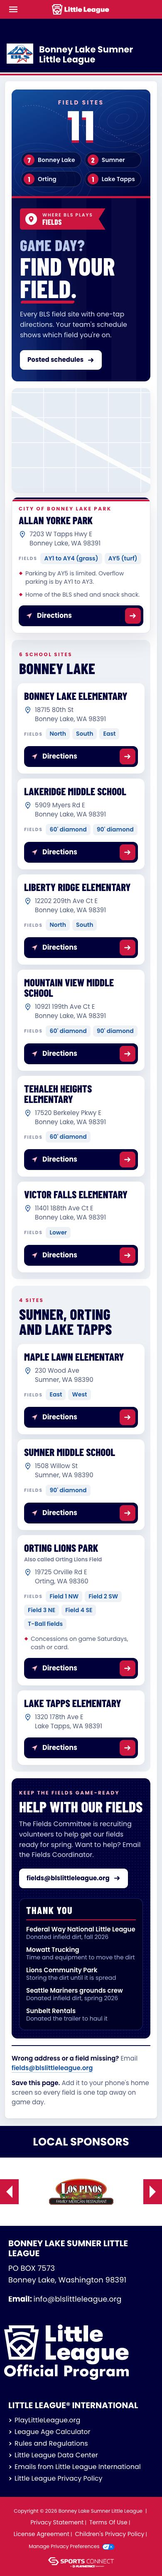
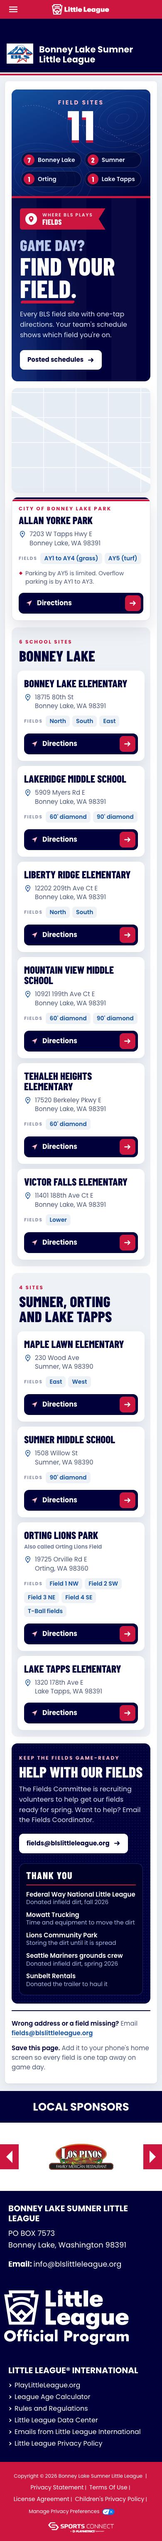
bls preview fields: snack shack and concessions notes removed until there are specifics
Generated with [Claude Code](https://claude.ai/code)
via [Happy](https://happy.engineering)

Claude-Session: https://claude.ai/code/session_018pH9PNFLS4TcMKKFXS6iHD

diff --git a/bls/preview/proposed/fields.html b/bls/preview/proposed/fields.html
@@ -1135,7 +1135,7 @@ window.addEventListener('OneTrustGroupsUpdated', handleGptAd);
 </section>
 <section class="fd-feature">
 <div class="fd-map"><iframe allowfullscreen="" src="https://www.google.com/maps?q=Allan+Yorke+Park%2C+7203+W+Tapps+Hwy+E%2C+Bonney+Lake%2C+WA+98391&amp;z=15&amp;output=embed" title="Map of Allan Yorke Park"></iframe></div>
-<article class="fd-card fd-big"><span class="bx-eyebrow">City of Bonney Lake park</span><h3>Allan Yorke Park</h3><p class="fd-addr"><svg aria-hidden="true" viewbox="0 0 24 24"><path d="M12 22s7-7.1 7-12.2A7 7 0 0 0 5 9.8C5 14.9 12 22 12 22z" fill="none" stroke="currentColor" stroke-width="2"></path><circle cx="12" cy="9.8" fill="currentColor" r="2.4"></circle></svg><span>7203 W Tapps Hwy E<br/>Bonney Lake, WA 98391</span></p><p class="fd-tags"><span class="fd-tl">Fields</span><span>AY1 to AY4 (grass)</span><span>AY5 (turf)</span></p><p class="fd-note">Parking by AY5 is limited. Overflow parking is by AY1 to AY3.</p><p class="fd-note">Home of the BLS shed and snack shack.</p><a aria-label="Directions to Allan Yorke Park" class="fd-go" href="https://www.google.com/maps/dir/?api=1&amp;destination=Allan+Yorke+Park%2C+7203+W+Tapps+Hwy+E%2C+Bonney+Lake%2C+WA+98391" rel="noopener" target="_blank"><svg aria-hidden="true" viewbox="0 0 24 24"><path d="M3 11l18-8-8 18-2-8-8-2z" fill="currentColor"></path></svg><span>Directions</span><b><svg aria-hidden="true" viewbox="0 0 16 16"><path d="M2 8h11M9 4l4 4-4 4" fill="none" stroke="currentColor" stroke-linecap="round" stroke-linejoin="round" stroke-width="2.2"></path></svg></b></a></article>
+<article class="fd-card fd-big"><span class="bx-eyebrow">City of Bonney Lake park</span><h3>Allan Yorke Park</h3><p class="fd-addr"><svg aria-hidden="true" viewbox="0 0 24 24"><path d="M12 22s7-7.1 7-12.2A7 7 0 0 0 5 9.8C5 14.9 12 22 12 22z" fill="none" stroke="currentColor" stroke-width="2"></path><circle cx="12" cy="9.8" fill="currentColor" r="2.4"></circle></svg><span>7203 W Tapps Hwy E<br/>Bonney Lake, WA 98391</span></p><p class="fd-tags"><span class="fd-tl">Fields</span><span>AY1 to AY4 (grass)</span><span>AY5 (turf)</span></p><p class="fd-note">Parking by AY5 is limited. Overflow parking is by AY1 to AY3.</p><a aria-label="Directions to Allan Yorke Park" class="fd-go" href="https://www.google.com/maps/dir/?api=1&amp;destination=Allan+Yorke+Park%2C+7203+W+Tapps+Hwy+E%2C+Bonney+Lake%2C+WA+98391" rel="noopener" target="_blank"><svg aria-hidden="true" viewbox="0 0 24 24"><path d="M3 11l18-8-8 18-2-8-8-2z" fill="currentColor"></path></svg><span>Directions</span><b><svg aria-hidden="true" viewbox="0 0 16 16"><path d="M2 8h11M9 4l4 4-4 4" fill="none" stroke="currentColor" stroke-linecap="round" stroke-linejoin="round" stroke-width="2.2"></path></svg></b></a></article>
 </section>
 <section class="bx-sec fd-town">
 <header><span class="bx-eyebrow">6 school sites</span><h2>Bonney Lake</h2></header>
@@ -1153,7 +1153,7 @@ window.addEventListener('OneTrustGroupsUpdated', handleGptAd);
 <div class="fd-grid">
 <article class="fd-card"><h3>Maple Lawn Elementary</h3><p class="fd-addr"><svg aria-hidden="true" viewbox="0 0 24 24"><path d="M12 22s7-7.1 7-12.2A7 7 0 0 0 5 9.8C5 14.9 12 22 12 22z" fill="none" stroke="currentColor" stroke-width="2"></path><circle cx="12" cy="9.8" fill="currentColor" r="2.4"></circle></svg><span>230 Wood Ave<br/>Sumner, WA 98390</span></p><p class="fd-tags"><span class="fd-tl">Fields</span><span>East</span><span>West</span></p><a aria-label="Directions to Maple Lawn Elementary" class="fd-go" href="https://www.google.com/maps/dir/?api=1&amp;destination=Maple+Lawn+Elementary%2C+230+Wood+Ave%2C+Sumner%2C+WA+98390" rel="noopener" target="_blank"><svg aria-hidden="true" viewbox="0 0 24 24"><path d="M3 11l18-8-8 18-2-8-8-2z" fill="currentColor"></path></svg><span>Directions</span><b><svg aria-hidden="true" viewbox="0 0 16 16"><path d="M2 8h11M9 4l4 4-4 4" fill="none" stroke="currentColor" stroke-linecap="round" stroke-linejoin="round" stroke-width="2.2"></path></svg></b></a></article>
 <article class="fd-card"><h3>Sumner Middle School</h3><p class="fd-addr"><svg aria-hidden="true" viewbox="0 0 24 24"><path d="M12 22s7-7.1 7-12.2A7 7 0 0 0 5 9.8C5 14.9 12 22 12 22z" fill="none" stroke="currentColor" stroke-width="2"></path><circle cx="12" cy="9.8" fill="currentColor" r="2.4"></circle></svg><span>1508 Willow St<br/>Sumner, WA 98390</span></p><p class="fd-tags"><span class="fd-tl">Fields</span><span>90' diamond</span></p><a aria-label="Directions to Sumner Middle School" class="fd-go" href="https://www.google.com/maps/dir/?api=1&amp;destination=Sumner+Middle+School%2C+1508+Willow+St%2C+Sumner%2C+WA+98390" rel="noopener" target="_blank"><svg aria-hidden="true" viewbox="0 0 24 24"><path d="M3 11l18-8-8 18-2-8-8-2z" fill="currentColor"></path></svg><span>Directions</span><b><svg aria-hidden="true" viewbox="0 0 16 16"><path d="M2 8h11M9 4l4 4-4 4" fill="none" stroke="currentColor" stroke-linecap="round" stroke-linejoin="round" stroke-width="2.2"></path></svg></b></a></article>
-<article class="fd-card"><h3>Orting Lions Park</h3><p class="fd-aka">Also called Orting Lions Field</p><p class="fd-addr"><svg aria-hidden="true" viewbox="0 0 24 24"><path d="M12 22s7-7.1 7-12.2A7 7 0 0 0 5 9.8C5 14.9 12 22 12 22z" fill="none" stroke="currentColor" stroke-width="2"></path><circle cx="12" cy="9.8" fill="currentColor" r="2.4"></circle></svg><span>19725 Orville Rd E<br/>Orting, WA 98360</span></p><p class="fd-tags"><span class="fd-tl">Fields</span><span>Field 1 NW</span><span>Field 2 SW</span><span>Field 3 NE</span><span>Field 4 SE</span><span>T-Ball fields</span></p><p class="fd-note">Concessions on game Saturdays, cash or card.</p><a aria-label="Directions to Orting Lions Park" class="fd-go" href="https://www.google.com/maps/dir/?api=1&amp;destination=Orting+Lions+Park%2C+19725+Orville+Rd+E%2C+Orting%2C+WA+98360" rel="noopener" target="_blank"><svg aria-hidden="true" viewbox="0 0 24 24"><path d="M3 11l18-8-8 18-2-8-8-2z" fill="currentColor"></path></svg><span>Directions</span><b><svg aria-hidden="true" viewbox="0 0 16 16"><path d="M2 8h11M9 4l4 4-4 4" fill="none" stroke="currentColor" stroke-linecap="round" stroke-linejoin="round" stroke-width="2.2"></path></svg></b></a></article>
+<article class="fd-card"><h3>Orting Lions Park</h3><p class="fd-aka">Also called Orting Lions Field</p><p class="fd-addr"><svg aria-hidden="true" viewbox="0 0 24 24"><path d="M12 22s7-7.1 7-12.2A7 7 0 0 0 5 9.8C5 14.9 12 22 12 22z" fill="none" stroke="currentColor" stroke-width="2"></path><circle cx="12" cy="9.8" fill="currentColor" r="2.4"></circle></svg><span>19725 Orville Rd E<br/>Orting, WA 98360</span></p><p class="fd-tags"><span class="fd-tl">Fields</span><span>Field 1 NW</span><span>Field 2 SW</span><span>Field 3 NE</span><span>Field 4 SE</span><span>T-Ball fields</span></p><a aria-label="Directions to Orting Lions Park" class="fd-go" href="https://www.google.com/maps/dir/?api=1&amp;destination=Orting+Lions+Park%2C+19725+Orville+Rd+E%2C+Orting%2C+WA+98360" rel="noopener" target="_blank"><svg aria-hidden="true" viewbox="0 0 24 24"><path d="M3 11l18-8-8 18-2-8-8-2z" fill="currentColor"></path></svg><span>Directions</span><b><svg aria-hidden="true" viewbox="0 0 16 16"><path d="M2 8h11M9 4l4 4-4 4" fill="none" stroke="currentColor" stroke-linecap="round" stroke-linejoin="round" stroke-width="2.2"></path></svg></b></a></article>
 <article class="fd-card"><h3>Lake Tapps Elementary</h3><p class="fd-addr"><svg aria-hidden="true" viewbox="0 0 24 24"><path d="M12 22s7-7.1 7-12.2A7 7 0 0 0 5 9.8C5 14.9 12 22 12 22z" fill="none" stroke="currentColor" stroke-width="2"></path><circle cx="12" cy="9.8" fill="currentColor" r="2.4"></circle></svg><span>1320 178th Ave E<br/>Lake Tapps, WA 98391</span></p><a aria-label="Directions to Lake Tapps Elementary" class="fd-go" href="https://www.google.com/maps/dir/?api=1&amp;destination=Lake+Tapps+Elementary%2C+1320+178th+Ave+E%2C+Lake+Tapps%2C+WA+98391" rel="noopener" target="_blank"><svg aria-hidden="true" viewbox="0 0 24 24"><path d="M3 11l18-8-8 18-2-8-8-2z" fill="currentColor"></path></svg><span>Directions</span><b><svg aria-hidden="true" viewbox="0 0 16 16"><path d="M2 8h11M9 4l4 4-4 4" fill="none" stroke="currentColor" stroke-linecap="round" stroke-linejoin="round" stroke-width="2.2"></path></svg></b></a></article>
 </div>
 </section>

diff --git a/bls/preview/modules/fields.html b/bls/preview/modules/fields.html
@@ -144,7 +144,7 @@
 
   <section class="fd-feature">
     <div class="fd-map"><iframe src="https://www.google.com/maps?q=Allan+Yorke+Park%2C+7203+W+Tapps+Hwy+E%2C+Bonney+Lake%2C+WA+98391&amp;z=15&amp;output=embed" title="Map of Allan Yorke Park" allowfullscreen></iframe></div>
-    <article class="fd-card fd-big"><span class="bx-eyebrow">City of Bonney Lake park</span><h3>Allan Yorke Park</h3><p class="fd-addr"><svg viewBox="0 0 24 24" aria-hidden="true"><path d="M12 22s7-7.1 7-12.2A7 7 0 0 0 5 9.8C5 14.9 12 22 12 22z" fill="none" stroke="currentColor" stroke-width="2"/><circle cx="12" cy="9.8" r="2.4" fill="currentColor"/></svg><span>7203 W Tapps Hwy E<br>Bonney Lake, WA 98391</span></p><p class="fd-tags"><span class="fd-tl">Fields</span><span>AY1 to AY4 (grass)</span><span>AY5 (turf)</span></p><p class="fd-note">Parking by AY5 is limited. Overflow parking is by AY1 to AY3.</p><p class="fd-note">Home of the BLS shed and snack shack.</p><a class="fd-go" href="https://www.google.com/maps/dir/?api=1&amp;destination=Allan+Yorke+Park%2C+7203+W+Tapps+Hwy+E%2C+Bonney+Lake%2C+WA+98391" target="_blank" rel="noopener" aria-label="Directions to Allan Yorke Park"><svg viewBox="0 0 24 24" aria-hidden="true"><path d="M3 11l18-8-8 18-2-8-8-2z" fill="currentColor"/></svg><span>Directions</span><b><svg viewBox="0 0 16 16" aria-hidden="true"><path d="M2 8h11M9 4l4 4-4 4" fill="none" stroke="currentColor" stroke-width="2.2" stroke-linecap="round" stroke-linejoin="round"/></svg></b></a></article>
+    <article class="fd-card fd-big"><span class="bx-eyebrow">City of Bonney Lake park</span><h3>Allan Yorke Park</h3><p class="fd-addr"><svg viewBox="0 0 24 24" aria-hidden="true"><path d="M12 22s7-7.1 7-12.2A7 7 0 0 0 5 9.8C5 14.9 12 22 12 22z" fill="none" stroke="currentColor" stroke-width="2"/><circle cx="12" cy="9.8" r="2.4" fill="currentColor"/></svg><span>7203 W Tapps Hwy E<br>Bonney Lake, WA 98391</span></p><p class="fd-tags"><span class="fd-tl">Fields</span><span>AY1 to AY4 (grass)</span><span>AY5 (turf)</span></p><p class="fd-note">Parking by AY5 is limited. Overflow parking is by AY1 to AY3.</p><a class="fd-go" href="https://www.google.com/maps/dir/?api=1&amp;destination=Allan+Yorke+Park%2C+7203+W+Tapps+Hwy+E%2C+Bonney+Lake%2C+WA+98391" target="_blank" rel="noopener" aria-label="Directions to Allan Yorke Park"><svg viewBox="0 0 24 24" aria-hidden="true"><path d="M3 11l18-8-8 18-2-8-8-2z" fill="currentColor"/></svg><span>Directions</span><b><svg viewBox="0 0 16 16" aria-hidden="true"><path d="M2 8h11M9 4l4 4-4 4" fill="none" stroke="currentColor" stroke-width="2.2" stroke-linecap="round" stroke-linejoin="round"/></svg></b></a></article>
   </section>
 
   <section class="bx-sec fd-town">
@@ -164,7 +164,7 @@
     <div class="fd-grid">
       <article class="fd-card"><h3>Maple Lawn Elementary</h3><p class="fd-addr"><svg viewBox="0 0 24 24" aria-hidden="true"><path d="M12 22s7-7.1 7-12.2A7 7 0 0 0 5 9.8C5 14.9 12 22 12 22z" fill="none" stroke="currentColor" stroke-width="2"/><circle cx="12" cy="9.8" r="2.4" fill="currentColor"/></svg><span>230 Wood Ave<br>Sumner, WA 98390</span></p><p class="fd-tags"><span class="fd-tl">Fields</span><span>East</span><span>West</span></p><a class="fd-go" href="https://www.google.com/maps/dir/?api=1&amp;destination=Maple+Lawn+Elementary%2C+230+Wood+Ave%2C+Sumner%2C+WA+98390" target="_blank" rel="noopener" aria-label="Directions to Maple Lawn Elementary"><svg viewBox="0 0 24 24" aria-hidden="true"><path d="M3 11l18-8-8 18-2-8-8-2z" fill="currentColor"/></svg><span>Directions</span><b><svg viewBox="0 0 16 16" aria-hidden="true"><path d="M2 8h11M9 4l4 4-4 4" fill="none" stroke="currentColor" stroke-width="2.2" stroke-linecap="round" stroke-linejoin="round"/></svg></b></a></article>
       <article class="fd-card"><h3>Sumner Middle School</h3><p class="fd-addr"><svg viewBox="0 0 24 24" aria-hidden="true"><path d="M12 22s7-7.1 7-12.2A7 7 0 0 0 5 9.8C5 14.9 12 22 12 22z" fill="none" stroke="currentColor" stroke-width="2"/><circle cx="12" cy="9.8" r="2.4" fill="currentColor"/></svg><span>1508 Willow St<br>Sumner, WA 98390</span></p><p class="fd-tags"><span class="fd-tl">Fields</span><span>90&#x27; diamond</span></p><a class="fd-go" href="https://www.google.com/maps/dir/?api=1&amp;destination=Sumner+Middle+School%2C+1508+Willow+St%2C+Sumner%2C+WA+98390" target="_blank" rel="noopener" aria-label="Directions to Sumner Middle School"><svg viewBox="0 0 24 24" aria-hidden="true"><path d="M3 11l18-8-8 18-2-8-8-2z" fill="currentColor"/></svg><span>Directions</span><b><svg viewBox="0 0 16 16" aria-hidden="true"><path d="M2 8h11M9 4l4 4-4 4" fill="none" stroke="currentColor" stroke-width="2.2" stroke-linecap="round" stroke-linejoin="round"/></svg></b></a></article>
-      <article class="fd-card"><h3>Orting Lions Park</h3><p class="fd-aka">Also called Orting Lions Field</p><p class="fd-addr"><svg viewBox="0 0 24 24" aria-hidden="true"><path d="M12 22s7-7.1 7-12.2A7 7 0 0 0 5 9.8C5 14.9 12 22 12 22z" fill="none" stroke="currentColor" stroke-width="2"/><circle cx="12" cy="9.8" r="2.4" fill="currentColor"/></svg><span>19725 Orville Rd E<br>Orting, WA 98360</span></p><p class="fd-tags"><span class="fd-tl">Fields</span><span>Field 1 NW</span><span>Field 2 SW</span><span>Field 3 NE</span><span>Field 4 SE</span><span>T-Ball fields</span></p><p class="fd-note">Concessions on game Saturdays, cash or card.</p><a class="fd-go" href="https://www.google.com/maps/dir/?api=1&amp;destination=Orting+Lions+Park%2C+19725+Orville+Rd+E%2C+Orting%2C+WA+98360" target="_blank" rel="noopener" aria-label="Directions to Orting Lions Park"><svg viewBox="0 0 24 24" aria-hidden="true"><path d="M3 11l18-8-8 18-2-8-8-2z" fill="currentColor"/></svg><span>Directions</span><b><svg viewBox="0 0 16 16" aria-hidden="true"><path d="M2 8h11M9 4l4 4-4 4" fill="none" stroke="currentColor" stroke-width="2.2" stroke-linecap="round" stroke-linejoin="round"/></svg></b></a></article>
+      <article class="fd-card"><h3>Orting Lions Park</h3><p class="fd-aka">Also called Orting Lions Field</p><p class="fd-addr"><svg viewBox="0 0 24 24" aria-hidden="true"><path d="M12 22s7-7.1 7-12.2A7 7 0 0 0 5 9.8C5 14.9 12 22 12 22z" fill="none" stroke="currentColor" stroke-width="2"/><circle cx="12" cy="9.8" r="2.4" fill="currentColor"/></svg><span>19725 Orville Rd E<br>Orting, WA 98360</span></p><p class="fd-tags"><span class="fd-tl">Fields</span><span>Field 1 NW</span><span>Field 2 SW</span><span>Field 3 NE</span><span>Field 4 SE</span><span>T-Ball fields</span></p><a class="fd-go" href="https://www.google.com/maps/dir/?api=1&amp;destination=Orting+Lions+Park%2C+19725+Orville+Rd+E%2C+Orting%2C+WA+98360" target="_blank" rel="noopener" aria-label="Directions to Orting Lions Park"><svg viewBox="0 0 24 24" aria-hidden="true"><path d="M3 11l18-8-8 18-2-8-8-2z" fill="currentColor"/></svg><span>Directions</span><b><svg viewBox="0 0 16 16" aria-hidden="true"><path d="M2 8h11M9 4l4 4-4 4" fill="none" stroke="currentColor" stroke-width="2.2" stroke-linecap="round" stroke-linejoin="round"/></svg></b></a></article>
       <article class="fd-card"><h3>Lake Tapps Elementary</h3><p class="fd-addr"><svg viewBox="0 0 24 24" aria-hidden="true"><path d="M12 22s7-7.1 7-12.2A7 7 0 0 0 5 9.8C5 14.9 12 22 12 22z" fill="none" stroke="currentColor" stroke-width="2"/><circle cx="12" cy="9.8" r="2.4" fill="currentColor"/></svg><span>1320 178th Ave E<br>Lake Tapps, WA 98391</span></p><a class="fd-go" href="https://www.google.com/maps/dir/?api=1&amp;destination=Lake+Tapps+Elementary%2C+1320+178th+Ave+E%2C+Lake+Tapps%2C+WA+98391" target="_blank" rel="noopener" aria-label="Directions to Lake Tapps Elementary"><svg viewBox="0 0 24 24" aria-hidden="true"><path d="M3 11l18-8-8 18-2-8-8-2z" fill="currentColor"/></svg><span>Directions</span><b><svg viewBox="0 0 16 16" aria-hidden="true"><path d="M2 8h11M9 4l4 4-4 4" fill="none" stroke="currentColor" stroke-width="2.2" stroke-linecap="round" stroke-linejoin="round"/></svg></b></a></article>
     </div>
   </section>

diff --git a/bls/preview/modules-src/build_fields.py b/bls/preview/modules-src/build_fields.py
@@ -13,11 +13,10 @@ FEATURE = ('Allan Yorke Park', '7203 W Tapps Hwy E', 'Bonney Lake', 'WA 98391',
 # Extra lines per site, from BLS social posts (sources listed in proposals/fields.json):
 #   aka = another name parents will see; notes = short practical facts.
 EXTRA = {
-    'Allan Yorke Park': {'notes': ['Parking by AY5 is limited. Overflow parking is by AY1 to AY3.',
-                                   'Home of the BLS shed and snack shack.']},
+    'Allan Yorke Park': {'notes': ['Parking by AY5 is limited. Overflow parking is by AY1 to AY3.',]},
     'Mountain View Middle School': {'notes': [""]},
     'Orting Lions Park': {'aka': 'Also called Orting Lions Field',
-                          'notes': ['Concessions on game Saturdays, cash or card.']},
+                          'notes': []},
 }
 
 SECTIONS = [
